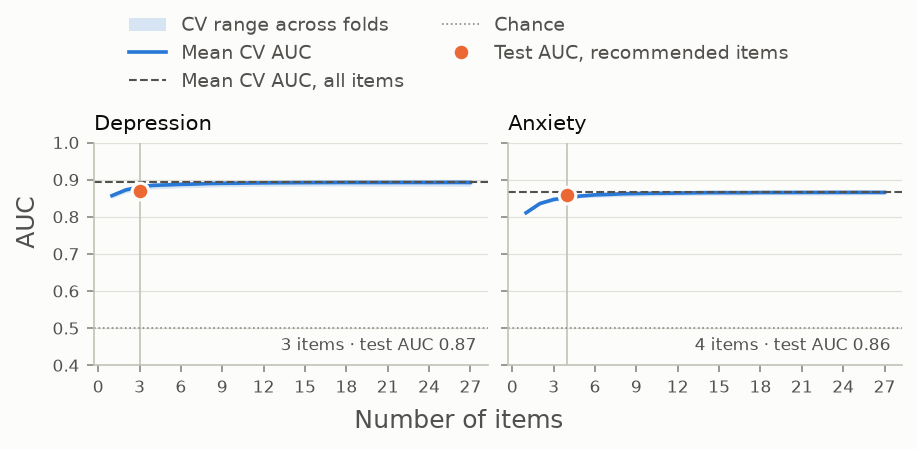
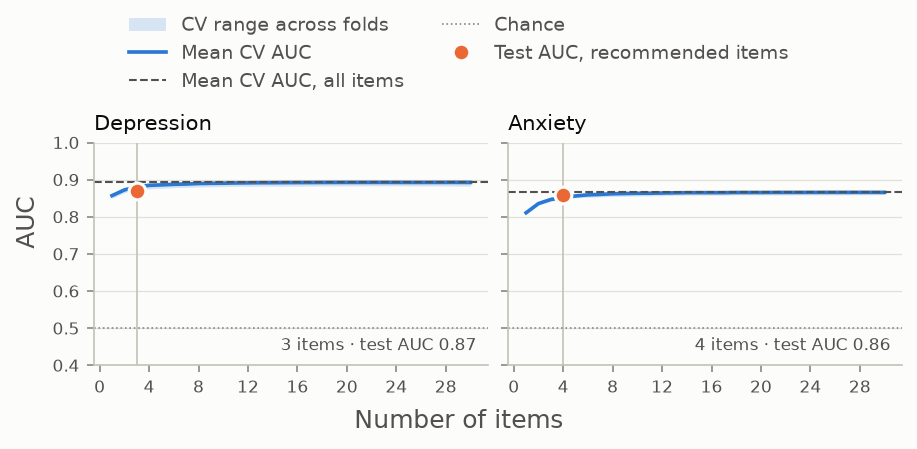
add sample counts and all-items auc, rerun with 30 items

diff --git a/item_recommender/recommender.py b/item_recommender/recommender.py
@@ -32,8 +32,11 @@ def save_results(results, output_dir):
     pd.DataFrame([
         {
             "output": output,
+            "n samples": result["n_samples"],
+            "n positive": result["n_positive"],
             "n items": len(result["items"]),
             "test performance": result["test_performance"],
+            "test performance all items": result["test_performance_all_items"],
             "threshold": result["threshold"],
             "test sensitivity": result["test_sensitivity"],
             "test specificity": result["test_specificity"],

diff --git a/item_recommender/cross_validator.py b/item_recommender/cross_validator.py
@@ -77,7 +77,10 @@ class CrossValidator:
             },
             "item_coefficients": dict(zip(items, model.named_steps["model"].coef_[0])),
             "model": model,
+            "n_samples": len(y),
+            "n_positive": int(y.sum()),
             "test_performance": test_performances["perf_on_features"][opt_n],
+            "test_performance_all_items": test_performances["perf_all_features"],
             "threshold": threshold,
             "test_sensitivity": sensitivity,
             "test_specificity": specificity,

diff --git a/README.md b/README.md
@@ -2,22 +2,31 @@
 
 [![tests](https://github.com/charlie42/item_recommender/actions/workflows/tests.yml/badge.svg)](https://github.com/charlie42/item_recommender/actions/workflows/tests.yml)
 
-Item recommender takes questionnaire responses and binary outcomes, such as diagnoses, and recommends a short screener for each outcome. It reports the screener's items, its AUC on held-out data, the probability threshold that reaches the target sensitivity (80% by default) in cross-validation, and the sensitivity and specificity at that threshold on held-out data.
+Item recommender takes a dataset of questionnaire responses and binary outcomes, such as diagnoses, and recommends a short screener for each outcome. It reports the screener's items, its AUC on held-out data, the probability threshold that reaches the target sensitivity (80% by default) in cross-validation, and the sensitivity and specificity at that threshold on held-out data.
+
+## Method
+
+The numbers below can be changed in the config file. The setting for each one is given in brackets (see [Options](#options)).
+
+For each outcome, 20% of the data (`split percentage`) is held out as the test set. On the rest:
+
+1. Elastic net logistic regression is tuned on all items with a random hyperparameter search and inner cross-validation.
+2. Recursive feature elimination narrows the items down to N (`n features to check`, 30 by default), then sequential forward floating selection builds subsets of 1 to N items.
+3. Steps 1 and 2 are run in each of 5 outer cross-validation folds (`outer cv n splits`). Each subset is evaluated on the fold left out. The recommended number of items is the smallest one whose mean AUC reaches 95% (`percentage for opt n features`) of the best improvement over chance (AUC 0.5). The probability threshold is the median across folds of the highest threshold that reaches the target sensitivity (`target sensitivity`, 80% by default).
+4. Steps 1 and 2 are run on the whole training set, then the subset of the recommended size is evaluated on the test set (AUC, and sensitivity and specificity at the threshold). A model with all items is also evaluated on the test set for comparison. The final model is trained on all data with those items.
+
+The stability of each recommended item (the fraction of outer folds whose subset of the same size includes it) is reported.
+
+Items with more than 40% missing values (`max missing fraction`) are dropped. Other missing item values are filled with the item's median from the training data of each fold.
+
+Only binary outcomes are supported. Selecting a shared item set for multiple outcomes is not supported.
 
 ## Examples
 
-- Datasets: NHIS sample child and sample adult files (2019 and 2022 pooled), NHANES questionnaires (2017 to March 2020)
-- Outcomes: self-reported diagnoses ("Has a doctor or other health professional ever told you that you had...")
-- Items with more than 40% missing values are excluded
-
-In each figure, the blue line is the cross-validated AUC for each number of items, the dashed line is the AUC with all items, the vertical line is the recommended number of items and the orange dot is the test set AUC of the recommended items.
-
-Sensitivity and specificity are measured on the test set. The full results, with survey variable names, item stability and coefficients, are in `results/<example>/recommended_items.csv`.
-
-### NHIS child
+### NHIS child (2019 and 2022)
 
 - Participants: 13,090 children aged 4 to 17, reported by a parent
-- Items (68, 50 after the missing value filter):
+- Items (68, 50 with at most 40% missing values):
   - Strengths and Difficulties Questionnaire (SDQ) with its impact items
   - how often the child seems sad or anxious
   - difficulties with seeing, hearing, mobility, self care, communication, learning, memory, behavior
@@ -25,24 +34,26 @@ Sensitivity and specificity are measured on the test set. The full results, with
   - adverse childhood experiences
   - food insecurity
   - school days missed
-- Outcomes: ADHD, autism, learning disability, developmental delay, intellectual disability
+- Outcomes (self-reported diagnoses): ADHD, autism, learning disability, developmental delay, intellectual disability
 
 ![Test AUC by number of items for each NHIS child outcome](results/nhis_child/auc_by_n_items.png)
 
-| Outcome | Items | Test AUC | Sensitivity | Specificity |
-|---|---|---|---|---|
-| Intellectual disability | overall difficulties, difficulty learning | 0.91 | 0.72 | 0.94 |
-| Autism | overall difficulties, difficulty learning, difficulty accepting changes in routine | 0.90 | 0.81 | 0.84 |
-| Learning disability | easily distracted, overall difficulties, difficulty learning | 0.89 | 0.86 | 0.76 |
-| ADHD | easily distracted, good attention span, overall difficulties | 0.86 | 0.76 | 0.83 |
-| Developmental delay | overall difficulties, difficulty being understood outside the household, difficulty learning, school days missed | 0.86 | 0.84 | 0.68 |
+In each figure, the blue line is the cross-validated AUC for each number of items, the dashed line is the AUC with all items, the vertical line is the recommended number of items, and the orange dot is the test set AUC of the recommended items. In each table, cases are the participants with the diagnosis, and each item's stability is in parentheses.
 
-"Overall difficulties" is the SDQ impact question "Overall, do you think that [child] has difficulties in one or more of the following areas: emotions, concentration, behavior, or being able to get along with other people?".
+| Outcome | Cases | N items | Items (stability) | Test AUC | Test AUC, all items (50) | Sensitivity | Specificity |
+|---|---|---|---|---|---|---|---|
+| Intellectual disability | 236 (1.8%) | 2 | overall difficulties (80%), difficulty learning (100%) | 0.91 | 0.91 | 0.72 | 0.94 |
+| Autism | 450 (3.4%) | 3 | overall difficulties (100%), difficulty learning (100%), difficulty accepting changes in routine (100%) | 0.90 | 0.93 | 0.81 | 0.84 |
+| Learning disability | 1,022 (7.8%) | 3 | easily distracted (100%), overall difficulties (60%), difficulty learning (100%) | 0.89 | 0.91 | 0.86 | 0.76 |
+| ADHD | 1,425 (10.9%) | 3 | easily distracted (100%), good attention span (100%), overall difficulties (100%) | 0.86 | 0.88 | 0.76 | 0.83 |
+| Developmental delay | 651 (5.0%) | 4 | overall difficulties (100%), difficulty being understood outside the household (100%), difficulty learning (100%), school days missed (60%) | 0.86 | 0.87 | 0.84 | 0.68 |
 
-### NHIS adult
+Item wording: [NHIS 2022 child codebook](https://ftp.cdc.gov/pub/Health_Statistics/NCHS/Dataset_Documentation/NHIS/2022/child-codebook.pdf). Variable names are in `results/nhis_child/recommended_items.csv`.
+
+### NHIS adult (2019 and 2022)
 
 - Participants: 59,648 adults
-- Items (56, 49 after the missing value filter):
+- Items (56, 49 with at most 40% missing values):
   - PHQ-8, GAD-7
   - frequency and level of depression and anxiety
   - general health, BMI category
@@ -50,50 +61,56 @@ Sensitivity and specificity are measured on the test set. The full results, with
   - difficulties with seeing, hearing, walking, communication, memory, self care, daily activities
   - smoking, vaping
   - food insecurity
-- Outcomes: depression, anxiety
+- Outcomes (self-reported diagnoses): depression, anxiety
 
 ![Test AUC by number of items for each NHIS adult outcome](results/nhis_adult/auc_by_n_items.png)
 
-| Outcome | Items | Test AUC | Sensitivity | Specificity |
-|---|---|---|---|---|
-| Depression | how often depressed, how often anxious, difficulty remembering or concentrating | 0.87 | 0.76 | 0.81 |
-| Anxiety | general health, feeling nervous or on edge (GAD-7), how often depressed, how often anxious | 0.86 | 0.82 | 0.75 |
+| Outcome | Cases | N items | Items (stability) | Test AUC | Test AUC, all items (49) | Sensitivity | Specificity |
+|---|---|---|---|---|---|---|---|
+| Depression | 10,618 (17.8%) | 3 | how often depressed (100%), how often anxious (100%), difficulty remembering or concentrating (100%) | 0.87 | 0.89 | 0.76 | 0.81 |
+| Anxiety | 9,579 (16.1%) | 4 | general health (60%), GAD-7 feeling nervous or on edge (100%), how often depressed (100%), how often anxious (100%) | 0.86 | 0.87 | 0.82 | 0.75 |
+
+Item wording: [NHIS 2022 adult codebook](https://ftp.cdc.gov/pub/Health_Statistics/NCHS/Dataset_Documentation/NHIS/2022/adult-codebook.pdf). Variable names are in `results/nhis_adult/recommended_items.csv`.
 
 #### Without mental health items
 
-The same analysis without the mental health items, to find which other health items predict depression and anxiety. The excluded items are listed in `scripts/build_nhis.py`.
+The same analysis without the mental health items, to find which other health items predict depression and anxiety.
 
 ![Test AUC by number of items for each NHIS adult outcome without mental health items](results/nhis_adult_health/auc_by_n_items.png)
 
-| Outcome | Items | Test AUC | Sensitivity | Specificity |
-|---|---|---|---|---|
-| Depression | general health, asthma, arthritis, difficulty seeing, ever vaped, worried food would run out | 0.72 | 0.76 | 0.54 |
-| Anxiety | general health, asthma, arthritis, difficulty seeing, ever vaped, couldn't afford balanced meals | 0.70 | 0.74 | 0.53 |
+| Outcome | Cases | N items | Items (stability) | Test AUC | Test AUC, all items (27) | Sensitivity | Specificity |
+|---|---|---|---|---|---|---|---|
+| Depression | 10,618 (17.8%) | 6 | general health (100%), asthma (100%), arthritis (100%), difficulty seeing (100%), ever vaped (100%), worried food would run out (100%) | 0.72 | 0.73 | 0.76 | 0.54 |
+| Anxiety | 9,579 (16.1%) | 6 | general health (100%), asthma (100%), arthritis (100%), difficulty seeing (100%), ever vaped (100%), couldn't afford balanced meals (80%) | 0.70 | 0.71 | 0.74 | 0.53 |
 
-### NHANES
+Item wording: [NHIS 2022 adult codebook](https://ftp.cdc.gov/pub/Health_Statistics/NCHS/Dataset_Documentation/NHIS/2022/adult-codebook.pdf). Variable names are in `results/nhis_adult_health/recommended_items.csv`.
+
+### NHANES (2017 to March 2020)
 
 - Participants: 9,232 adults
-- Items (154, 93 after the missing value filter): depression, sleep, general health, weight history, physical activity, alcohol, smoking, cardiovascular and diet questionnaires, age, sex
-- Outcomes: 14 diagnoses
+- Items (154, 93 with at most 40% missing values): depression, sleep, general health, weight history, physical activity, alcohol, smoking, cardiovascular and diet questionnaires, age, sex
+- Outcomes: 14 self-reported diagnoses
 
 ![Test AUC by number of items for each NHANES outcome](results/nhanes/auc_by_n_items.png)
 
-| Outcome | Items | Test AUC | Sensitivity | Specificity |
-|---|---|---|---|---|
-| Heart failure | age, general health, greatest weight, chest pain | 0.91 | 0.86 | 0.79 |
-| Angina | age, general health, chest pain | 0.90 | 0.92 | 0.75 |
-| Heart attack | age, sex, general health, chest pain | 0.90 | 0.84 | 0.79 |
-| Coronary heart disease | age, sex, chest pain | 0.88 | 0.84 | 0.78 |
-| COPD | age, general health, smoked 100 cigarettes, short of breath on stairs | 0.83 | 0.85 | 0.66 |
-| Arthritis | age, trouble sleeping, general health, greatest weight | 0.82 | 0.81 | 0.70 |
-| Diabetes | age, general health, weight 10 years ago | 0.82 | 0.78 | 0.72 |
-| Cancer | age, trouble sleeping | 0.80 | 0.81 | 0.63 |
-| Hypertension | age, general health, greatest weight | 0.79 | 0.77 | 0.68 |
-| Stroke | age, general health | 0.78 | 0.77 | 0.64 |
-| High cholesterol | age, trouble sleeping, ate fewer carbohydrates, chest pain | 0.76 | 0.77 | 0.63 |
-| Thyroid problem | age, sex, trouble sleeping | 0.72 | 0.80 | 0.50 |
-| Liver condition | age, moving or speaking slowly or too fast, trouble sleeping, general health, ate fewer carbohydrates, 4/5 drinks every day, chest pain | 0.71 | 0.77 | 0.49 |
-| Asthma | age, trouble sleeping, sleepy during the day, short of breath on stairs | 0.68 | 0.82 | 0.44 |
+| Outcome | Cases | N items | Items (stability) | Test AUC | Test AUC, all items (93) | Sensitivity | Specificity |
+|---|---|---|---|---|---|---|---|
+| Heart failure | 361 (3.9%) | 4 | age (100%), general health (100%), greatest weight (80%), chest pain (100%) | 0.91 | 0.91 | 0.86 | 0.79 |
+| Angina | 240 (2.6%) | 3 | age (100%), general health (100%), chest pain (100%) | 0.90 | 0.90 | 0.92 | 0.75 |
+| Heart attack | 432 (4.7%) | 4 | age (100%), sex (100%), general health (100%), chest pain (100%) | 0.90 | 0.90 | 0.84 | 0.79 |
+| Coronary heart disease | 423 (4.6%) | 3 | age (100%), sex (100%), chest pain (100%) | 0.88 | 0.89 | 0.84 | 0.78 |
+| COPD | 846 (9.2%) | 4 | age (100%), general health (100%), smoked 100 cigarettes (100%), short of breath on stairs (100%) | 0.83 | 0.85 | 0.85 | 0.66 |
+| Arthritis | 2,812 (30.5%) | 4 | age (100%), trouble sleeping (100%), general health (100%), greatest weight (100%) | 0.82 | 0.84 | 0.81 | 0.70 |
+| Diabetes | 1,420 (15.8%) | 3 | age (100%), general health (100%), weight 10 years ago (100%) | 0.82 | 0.84 | 0.78 | 0.72 |
+| Cancer | 1,006 (10.9%) | 2 | age (100%), trouble sleeping (80%) | 0.80 | 0.80 | 0.81 | 0.63 |
+| Hypertension | 3,563 (38.6%) | 3 | age (100%), general health (100%), greatest weight (100%) | 0.79 | 0.80 | 0.77 | 0.68 |
+| Stroke | 487 (5.3%) | 2 | age (100%), general health (100%) | 0.78 | 0.81 | 0.77 | 0.64 |
+| High cholesterol | 3,261 (35.6%) | 4 | age (100%), trouble sleeping (100%), ate fewer carbohydrates (100%), chest pain (100%) | 0.76 | 0.78 | 0.77 | 0.63 |
+| Thyroid problem | 1,080 (11.7%) | 3 | age (100%), sex (100%), trouble sleeping (100%) | 0.72 | 0.73 | 0.80 | 0.50 |
+| Liver condition | 462 (5.0%) | 7 | age (100%), moving or speaking slowly or too fast (60%), trouble sleeping (80%), general health (100%), ate fewer carbohydrates (60%), 4/5 drinks every day (100%), chest pain (80%) | 0.71 | 0.72 | 0.77 | 0.49 |
+| Asthma | 1,442 (15.6%) | 4 | age (100%), trouble sleeping (100%), sleepy during the day (60%), short of breath on stairs (100%) | 0.68 | 0.69 | 0.82 | 0.44 |
+
+Item wording: [NHANES 2017 to March 2020 questionnaires](https://wwwn.cdc.gov/nchs/nhanes/search/datapage.aspx?Component=Questionnaire&Cycle=2017-2020). Variable names are in `results/nhanes/recommended_items.csv`.
 
 ### Reproducing the examples
 
@@ -103,34 +120,7 @@ make nhis MODE=PROD
 make nhanes MODE=PROD
 ```
 
-The survey files are downloaded to `data/`. The tables and figures are written to `results/`. Only items asked in both NHIS years are used.
-
-## Method
-
-```mermaid
-flowchart TD
-    A[Dataset] --> B[Training set, 80%]
-    A --> C[Test set, 20%]
-    B --> D["5 outer cross-validation folds: tune elastic net, eliminate items down to 27, select subsets of 1 to 27 items"]
-    D --> E["Recommended number of items, probability threshold"]
-    B --> F["Same steps on the whole training set"]
-    E --> G[Recommended items]
-    F --> G
-    G --> H["Test AUC, sensitivity, specificity"]
-    C --> H
-    G --> I[Final model trained on all data]
-```
-
-For each outcome, 20% of the data is held out as the test set. On the rest:
-
-1. Elastic net logistic regression is tuned on all items with a random hyperparameter search and inner cross-validation.
-2. Recursive feature elimination narrows the items down to 27, then sequential forward floating selection builds subsets of 1 to 27 items.
-3. This is repeated in 5 outer cross-validation folds. The recommended number of items is the smallest one whose mean AUC reaches 95% of the best improvement over chance (AUC 0.5).
-4. Steps 1 and 2 are run on the whole training set, then the subset of the recommended size is evaluated on the test set. The final model is trained on all data with those items.
-
-Missing item values are filled with the item's median from the training data of each fold.
-
-Only binary outcomes are supported. Selecting a shared item set for multiple outcomes is not supported.
+The survey files are downloaded to `data/`. The full results (survey variable names, item stability, coefficients) and the figures are written to `results/`. Only items asked in both NHIS years are used.
 
 ## Installation
 
@@ -159,7 +149,7 @@ Dataset format:
 - All other columns are items and should be numeric. Items with a larger fraction of missing values than `max missing fraction` are dropped.
 
 The output goes to a directory named after the dataset file. It contains:
-- `recommended_items.csv`: the recommended items for each output, each item's stability (the fraction of cross-validation folds that selected it) and coefficient on standardized responses, performance on the test set, the recommended probability threshold, and test sensitivity and specificity at that threshold.
+- `recommended_items.csv`: the number of participants and cases for each output, the recommended items, each item's stability (the fraction of cross-validation folds that selected it) and coefficient on standardized responses, performance on the test set with the recommended items and with all items, the recommended probability threshold, and test sensitivity and specificity at that threshold.
 - `results.joblib`: the recommended items, cross-validation and test set performance for every number of items, and the final model trained on all data with the recommended items.
 
 The sign of a coefficient depends on how the item is coded. In NHIS, yes is coded 1 and no 2, so a negative coefficient means the predicted probability is higher for a yes answer. Such items can be recoded before running the recommender.
